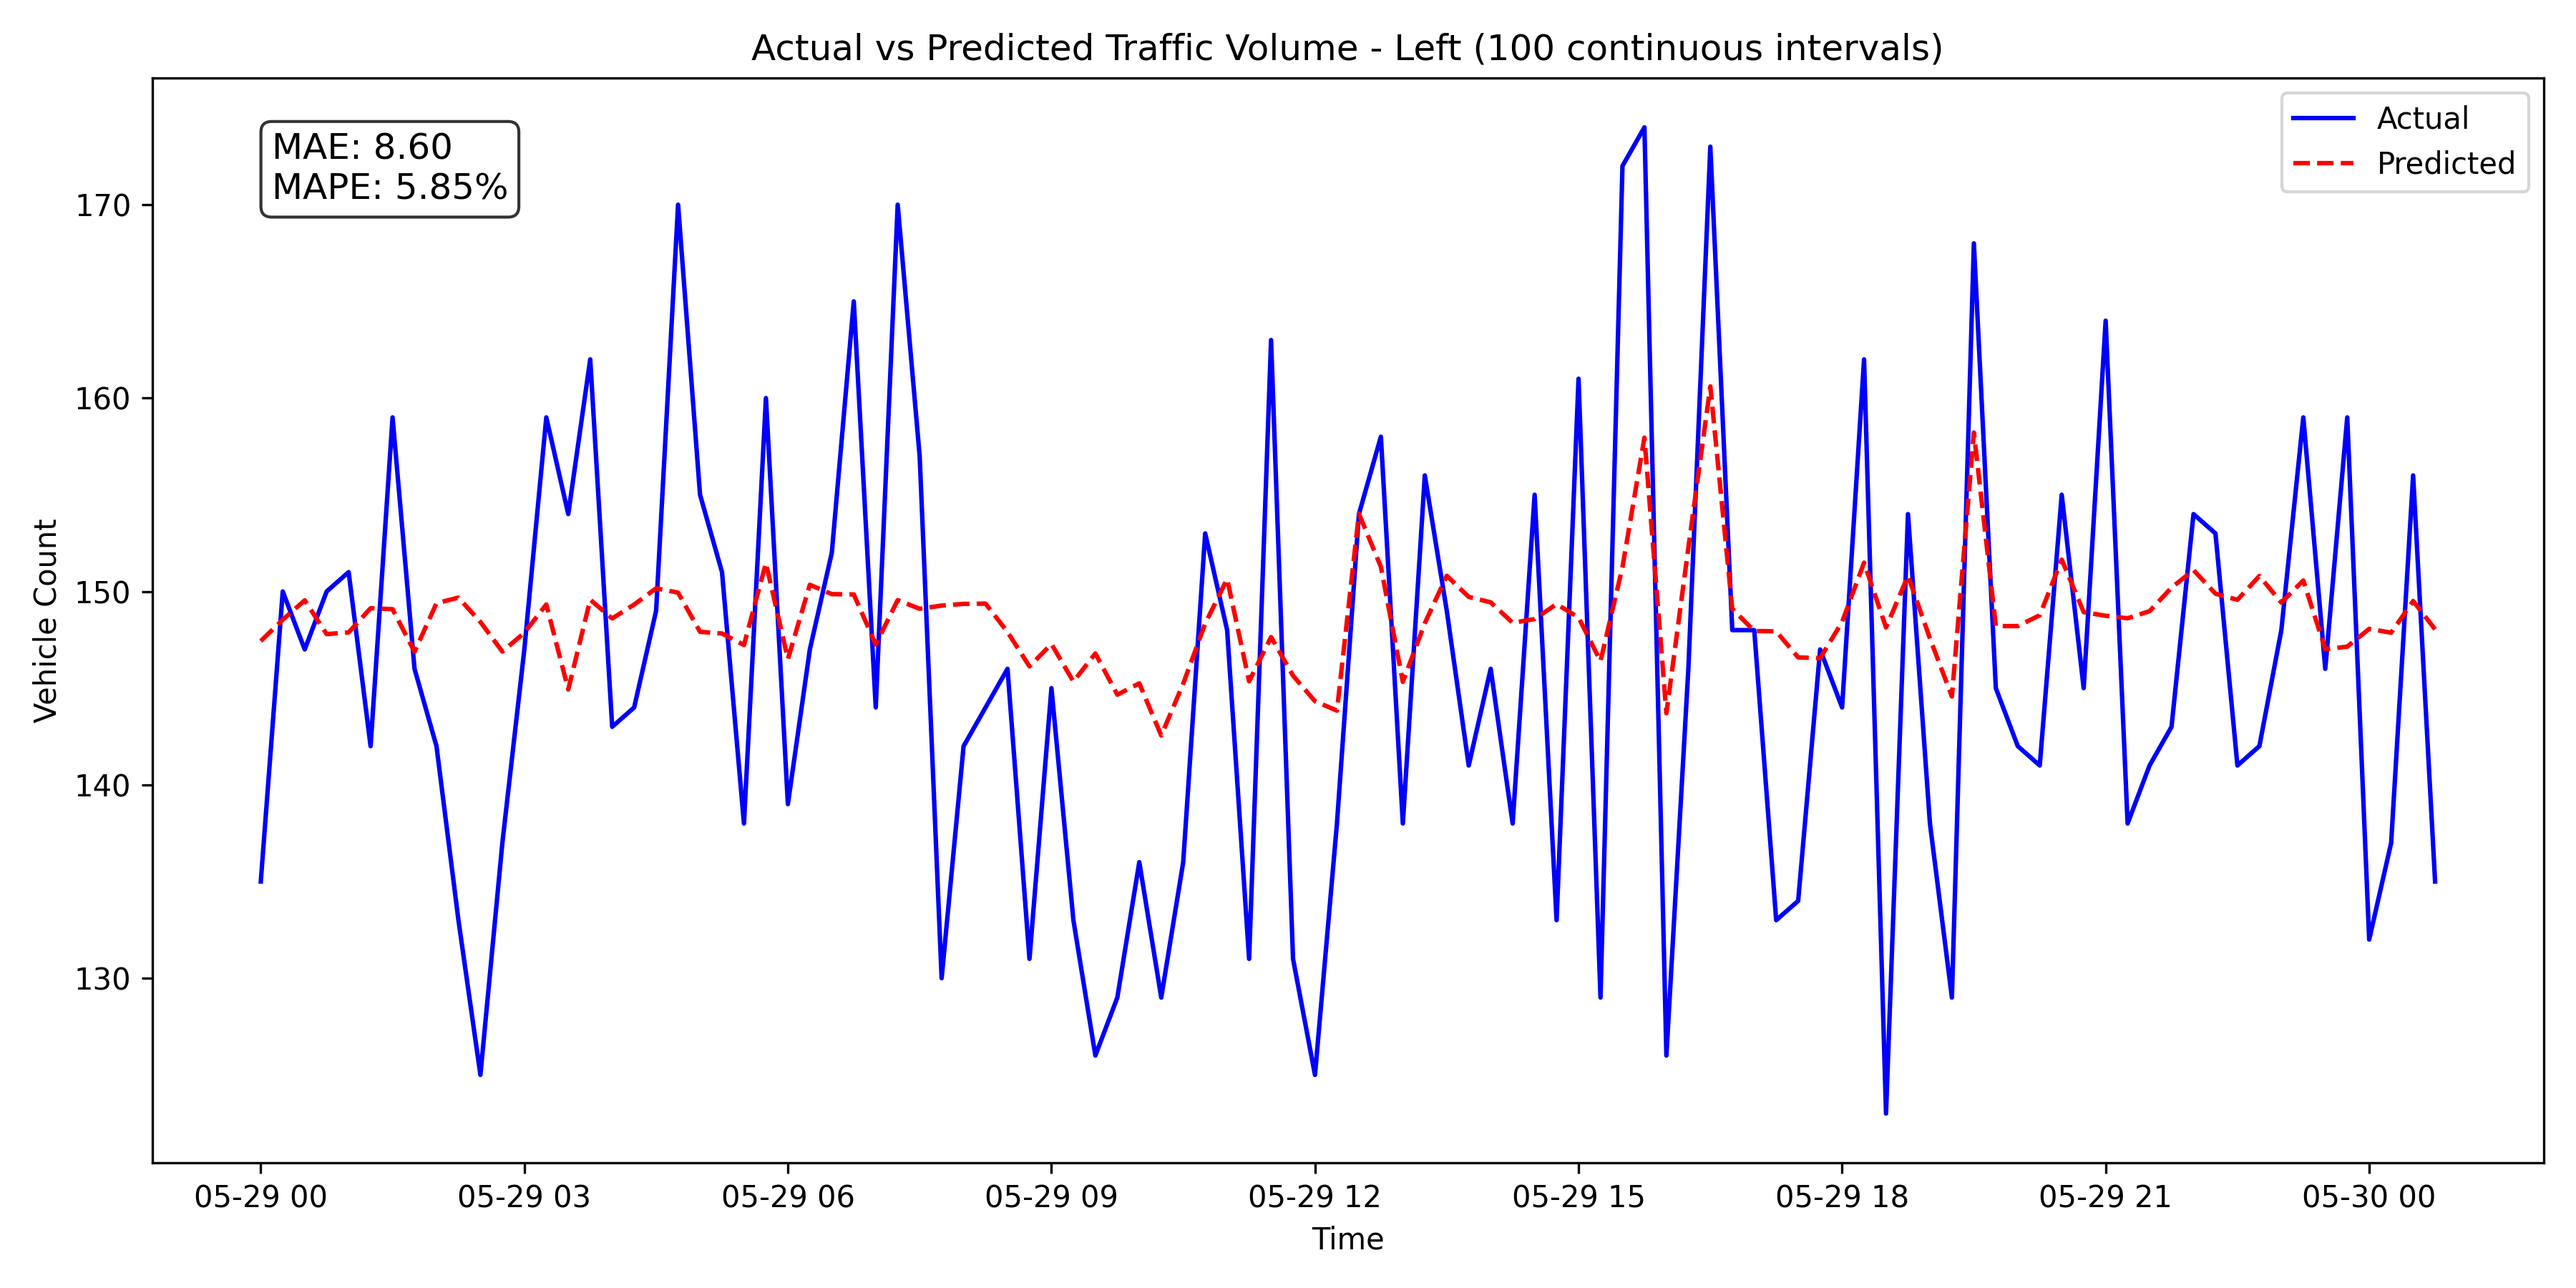
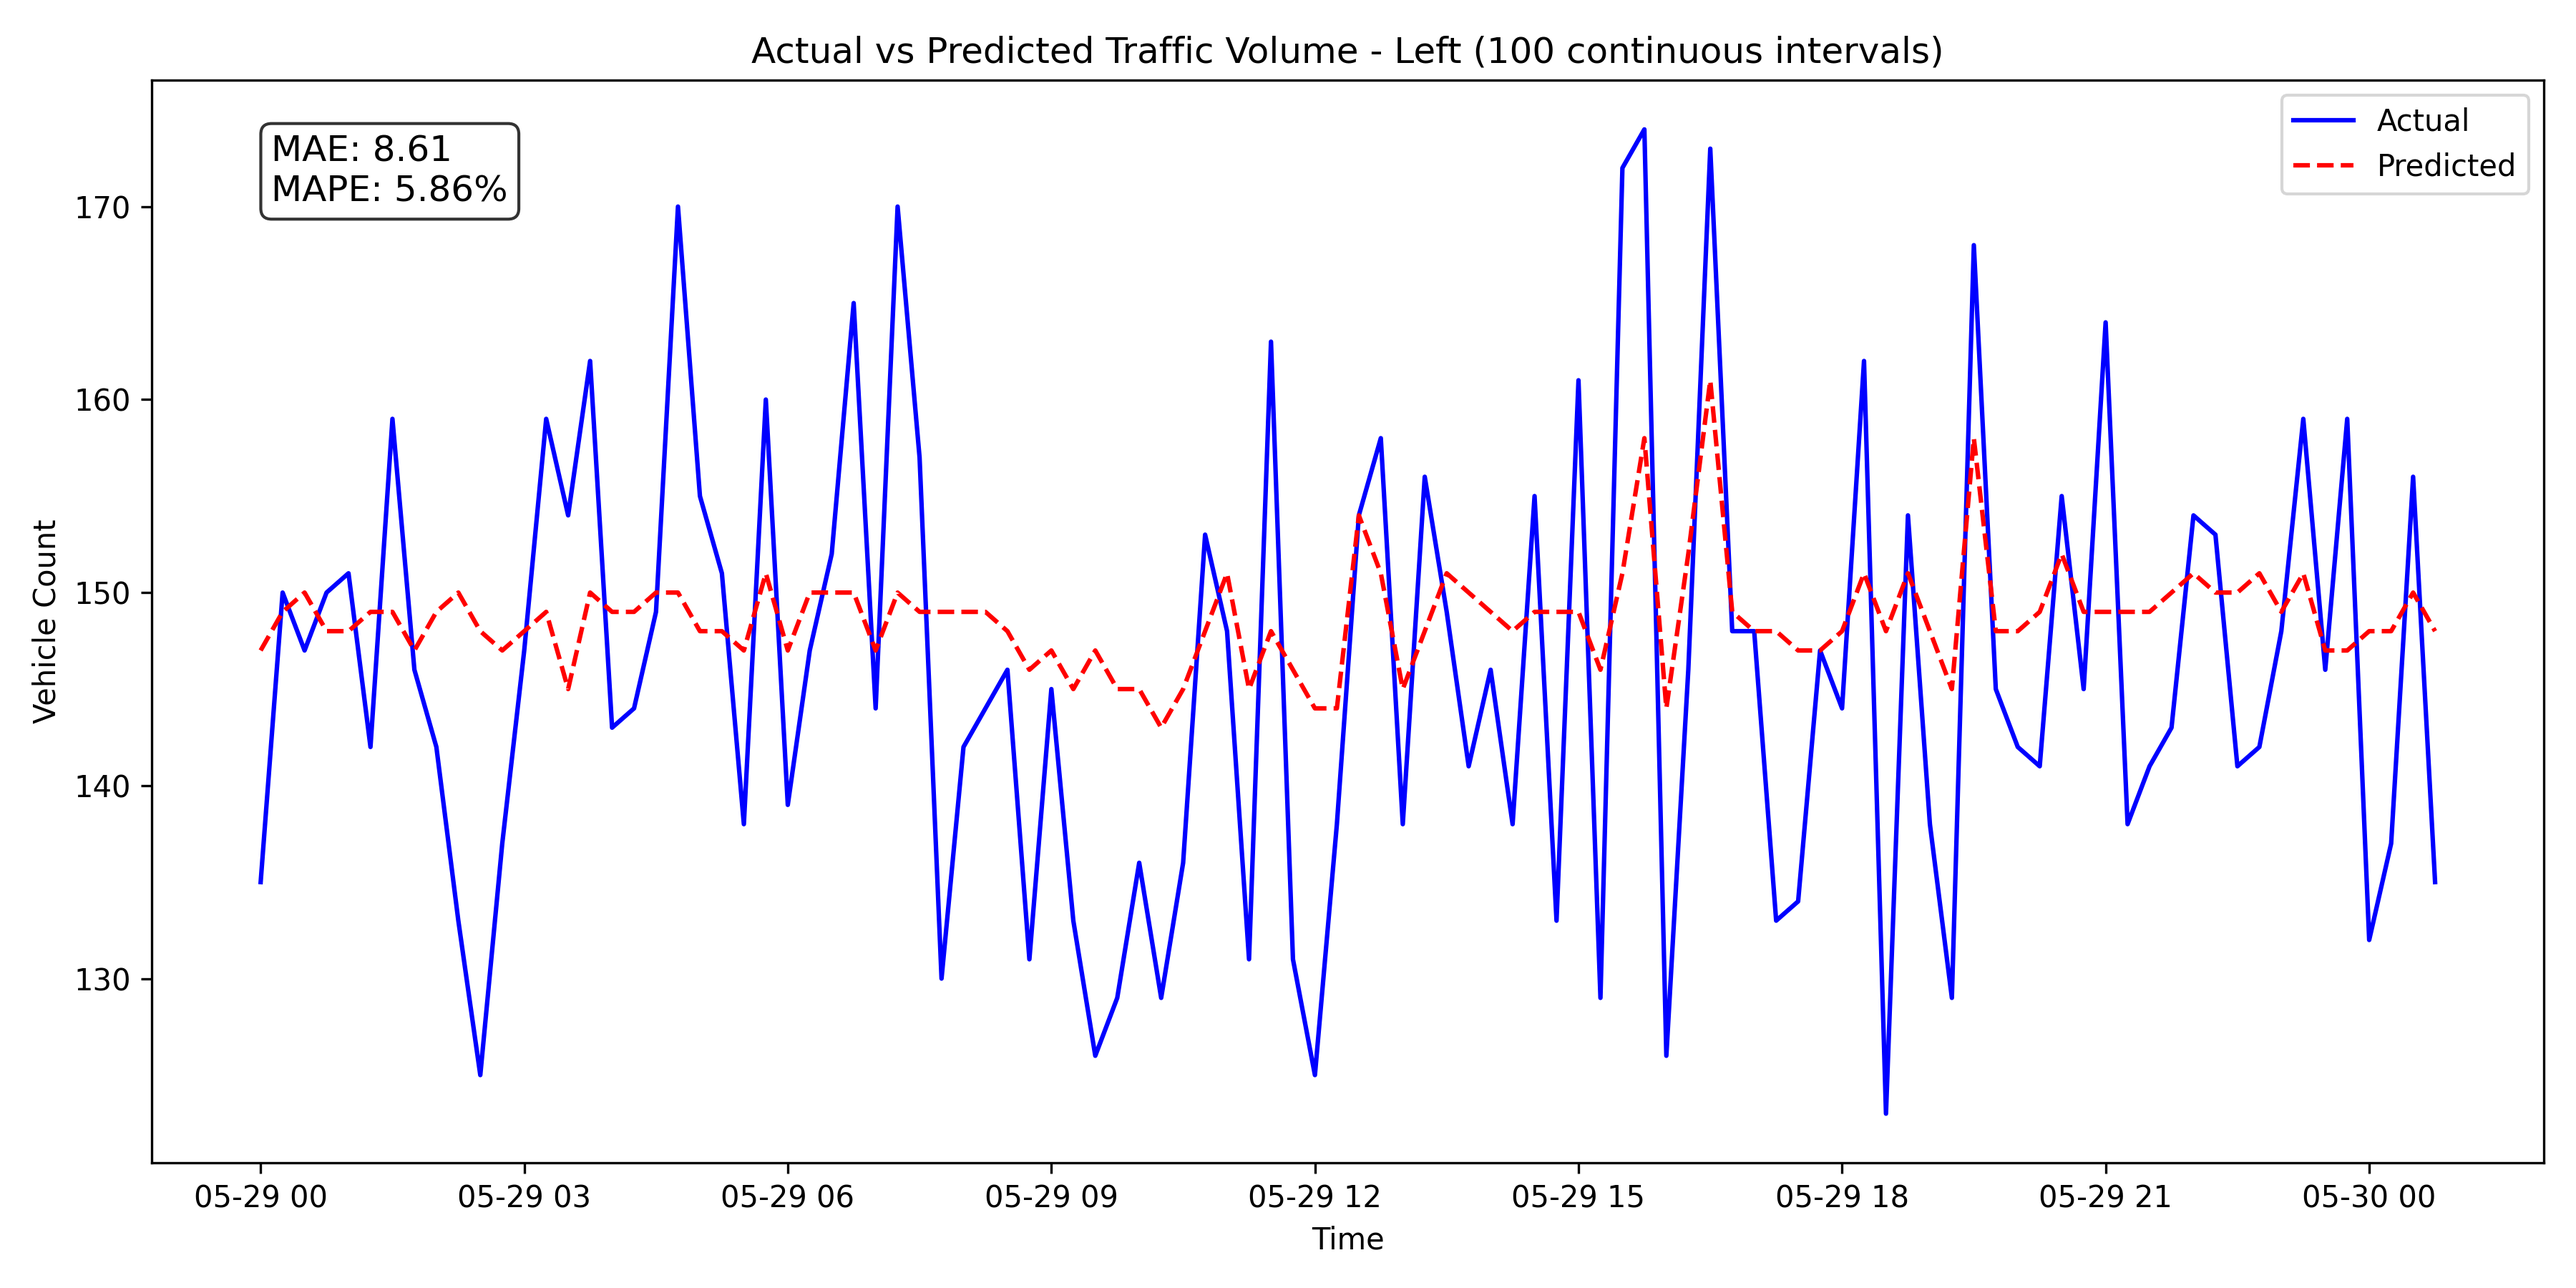
update task 9

diff --git a/ml_service/evaluate.py b/ml_service/evaluate.py
@@ -3,6 +3,8 @@ import sys
 import json
 import pandas as pd
 import numpy as np
+import matplotlib
+matplotlib.use('Agg')
 import matplotlib.pyplot as plt
 from sklearn.metrics import mean_absolute_error, mean_squared_error
 
@@ -69,7 +71,7 @@ def main():
         y_test = test_data['vehicle_count']
         
         y_pred = predictor.model.predict(X_test)
-        y_pred = np.clip(y_pred, 0, None) # Không có xe âm
+        y_pred = np.round(np.clip(y_pred, 0, None)) # Cắt giá trị âm và làm tròn thành số nguyên giống hệt wrapper predict()
         
         mae = mean_absolute_error(y_test, y_pred)
         rmse = np.sqrt(mean_squared_error(y_test, y_pred))
